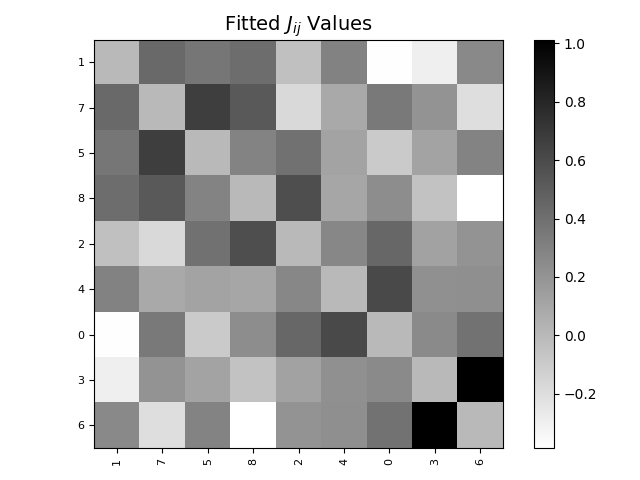
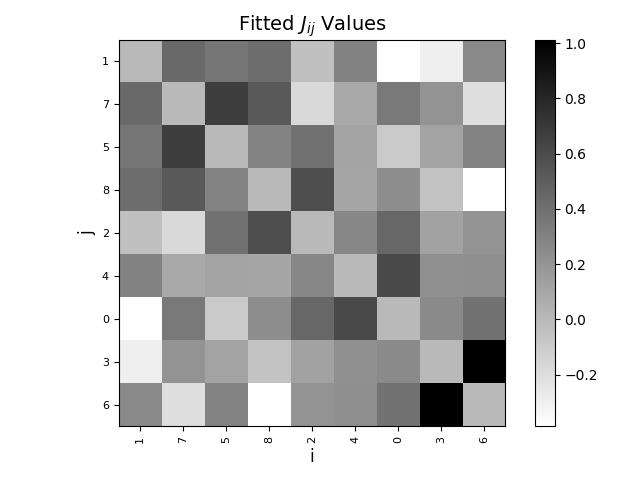
add empirical vs theoretical fit models

diff --git a/src/tcs/supreme_court.py b/src/tcs/supreme_court.py
@@ -11,137 +11,141 @@ class SupremeCourt:
         self.Jij_file_path = Jij_file_path 
         self.SC_file_path = SC_file_path 
         self.num_judges = num_judges
+        self.hi_unsorted = None
+        self.Jij_unsorted = None
         self.data = None
+        self.n = None
+        self.mean_si_empirical = None
+        self.correlation_sisj_empirical = None
+        self.mean_si_model = None
+        self.correlation_sisj_model = None
+        self.p_g = None
+        self.p_D = None
+        self.all_states = None
 
-    def load_data(self): 
-        """
-        Load data from the file path.
-        """
+    def load_data(self):
         with open(self.SC_file_path, 'r') as f:
-            self.data = [line.strip() for line in f]
+            lines = [line.strip() for line in f if line.strip()]
+        self.data = np.array([[int(c) if c != '0' else -1 for c in line] for line in lines])
+        self.n = self.data.shape[1]
+    
+    def load_parameters(self):
+        self.hi_unsorted = np.loadtxt(self.hi_file_path)
+        self.Jij_unsorted = np.loadtxt(self.Jij_file_path)
+
+        self.Jij_matrix = np.zeros((self.num_judges, self.num_judges))
+        idx = 0
+        for i in range(self.n):
+            for j in range(i + 1, self.n):
+                self.Jij_matrix[i, j] = self.Jij_unsorted[idx]
+                self.Jij_matrix[j, i] = self.Jij_unsorted[idx]
+                idx += 1
+    
+    def calculate_empirical_values(self):
+        """
+        Calculates <si>D and <si sj>D from the data.
+        """
+        # Calculate <si>_D and <si sj>_D
+        self.mean_si_empirical = np.mean(self.data, axis=0)
+        self.correlation_sisj_empirical = np.einsum('ni,nj->ij', self.data, self.data) / self.data.shape[0]
+        _, counts = np.unique(self.data, axis=0, return_counts=True)
+
+        # Calculate p_D(s)
+        self.p_D = counts / self.n
+    
+    def calculate_model_values(self):
+        """
+        Calculates <si>D and <si sj>D from the model.
+        """
+        states, _ = np.unique(self.data, axis=0, return_counts=True)
+
+        # Calculate p_g(s) 
+        if self.p_g is None:
+            exp_terms = []
+            for state in states:
+                exp_term = np.exp(np.dot(self.hi_unsorted, state) + 0.5*np.sum(self.Jij_matrix * np.outer(state, state)))
+                exp_terms.append(exp_term)
+            exp_terms = np.array(exp_terms)
+
+            Z_g = np.sum(exp_terms)
+            self.p_g = exp_terms / Z_g
+
+        # Calculate <si> and <si sj>
+        if self.mean_si_model is None or self.correlation_sisj_model is None:
+            self.mean_si_model = np.sum(states * self.p_g[:, None], axis=0)
+            self.correlation_sisj_model = np.einsum('si,sj,s->ij', states, states, self.p_g)
+
 
     def calculate_information(self): 
         """
         Calculate the information of the number of spins n, the number of states the data can observe 2^n, 
         the number N of datapoints, and the number N_max of different states that can be observed. 
         """
+        self.calculate_empirical_values()
         # Calculate n, the number of spins
-        n_values = []
-        for i, entry in enumerate(self.data):
-            n = sum(digit.isdigit() for digit in entry)
-            n_values.append(n)
+        unique_states = set(map(tuple, self.data))
         
-        if len(set(n_values)) == 1:
-            print(f"n = {n_values[0]}")
-        else: 
-            print("n values are not equal")
-
-        # Calculate the number of states that can be observed 
-        states = 2**n_values[0]
-        print(f"Number of states = {states}")
+        print(f"n = {self.n}")
+        print(f"Number of possible states = {2 ** self.n}")
+        print(f"N = {len(self.data)}")
+        print(f"N_max = {len(unique_states)}")
     
-        # Calculate N, the number of datapoints
-        N = len(self.data)
-        print(f"N = {N}")
 
-        # Calculate N_max, the number of different states that can be observed
-        N_max = len(set(self.data))
-        print(f"N_max = {N_max}")
-    
     def plot_average_votes(self, save_path=None): 
         """
         Plot the votes of the Supreme Court.
         """
-
         # Plot the value of <si>_D (the average of the votes) as a function of i. 
-
-        with open(self.SC_file_path, 'r') as f:
-            lines = [line.strip() for line in f if line.strip()]
-        data = np.array([[int(char) for char in line] for line in 
-                         lines])
-        data[data == 0] = -1
-
-        mean_si = np.mean(data, axis=0)
-
-        sorted_indices = np.argsort(mean_si)
-        sorted_mean_si = mean_si[sorted_indices]
-        i = np.arange(len(sorted_mean_si))
-
+        self.calculate_empirical_values()
+        sorted_indices = np.argsort(self.mean_si_empirical)
         plt.figure()
-        plt.scatter(i, sorted_mean_si, marker='o', color='black')
-        plt.title(r"Mean $<s_i>_D$ as a function of i", fontsize=14)
-        plt.xlabel("i", fontsize=12)
-        plt.xticks([])
-        plt.ylabel(r"$<s_i>_D$", fontsize=12)
-        plt.grid(visible=True, alpha=0.5)
-        plt.tight_layout()
-        if save_path: 
+        plt.scatter(np.arange(self.n), self.mean_si_empirical[sorted_indices], color='black')
+        plt.title(r"Mean $<s_i>$ as a function of i")
+        plt.xlabel("Justice (sorted)")
+        plt.ylabel(r"$<s_i>$")
+        plt.grid(True, alpha=0.5)
+        if save_path:
             plt.savefig(save_path)
-        else: 
+        else:
             plt.show()
 
     def plot_vote_correlation(self, save_path=None): 
         """
-        Plot the correlation matrix of the votes.
+        Plot a heatmap of the correlation matrix of the Judges' votes.
         """
-        # Heatmap of the correlation matrix
-        with open(self.SC_file_path, 'r') as f:
-            lines = [line.strip() for line in f if line.strip()]
-        data = np.array([[int(char) for char in line] for line in 
-                         lines])
-        data[data == 0] = -1
-        mean_si = np.mean(data, axis=0)
-        sorted_indices = np.argsort(mean_si)
-        corr_si_sj = np.einsum('ni,nj->ij', data, data) / data.shape[0]
-        sorted_corr_si = corr_si_sj[sorted_indices][:, sorted_indices]
+        self.calculate_empirical_values()
+        sorted_indices = np.argsort(self.mean_si_empirical)
+        sorted_corr = self.correlation_sisj_empirical[sorted_indices][:, sorted_indices]
+
         plt.figure()
-        plt.imshow(sorted_corr_si, cmap='gray_r')  # Use 'gray_r' for reversed greyscale
+        plt.imshow(sorted_corr, cmap='gray_r')
         plt.colorbar()
-        plt.title(r"Correlation matrix $<s_i s_j>_D$", fontsize=14)
-        plt.xlabel("i", fontsize=12)
-        plt.ylabel("j", fontsize=12)
-        plt.xticks(ticks=np.arange(len(sorted_indices)), labels=sorted_indices, fontsize=8, rotation=90)
-        plt.yticks(ticks=np.arange(len(sorted_indices)), labels=sorted_indices, fontsize=8)
-        plt.grid(visible=True, alpha=0.5)
+        plt.title(r"Correlation matrix $<s_i s_j>$")
+        plt.xticks(np.arange(self.n), sorted_indices, fontsize=8, rotation=90)
+        plt.yticks(np.arange(self.n), sorted_indices, fontsize=8)
         plt.tight_layout()
-        if save_path: 
+        if save_path:
             plt.savefig(save_path)
-        else: 
+        else:
             plt.show()
 
     def plot_fitted_parameters(self, save_hi_path=None, save_Jij_path=None): 
         """
         Plot heatmaps of the fitted hi vector and Jij matrix, reordered by <si>_D.
         """
-        hi_unsorted = np.loadtxt(self.hi_file_path)
-        Jij_unsorted = np.loadtxt(self.Jij_file_path)
+        self.load_parameters()
+        self.calculate_empirical_values()
+        sorted_indices = np.argsort(self.mean_si_empirical)
 
-
-        Jij_matrix = np.zeros((self.num_judges, self.num_judges))
-        idx = 0
-        for i in range(self.num_judges):
-            for j in range(i+1, self.num_judges):
-                Jij_matrix[i, j] = Jij_unsorted[idx]
-                Jij_matrix[j, i] = Jij_unsorted[idx]
-                idx += 1
-
-        with open(self.SC_file_path, 'r') as f:
-            lines = [line.strip() for line in f if line.strip()]
-
-        # Sort by mean magnetisations 
-        data = np.array([[int(char) for char in line] for line in lines])
-        data[data == 0] = -1
-        mean_si = np.mean(data, axis=0)
-        sorted_indices = np.argsort(mean_si)
-
-        hi_sorted = hi_unsorted[sorted_indices]
-        Jij_sorted = Jij_matrix[sorted_indices][:, sorted_indices]
+        hi_sorted = self.hi_unsorted[sorted_indices]
+        Jij_sorted = self.Jij_matrix[sorted_indices][:, sorted_indices]
 
         # Plot hi heatmap
         plt.figure()
         plt.imshow(hi_sorted.reshape(1, -1), cmap='gray_r', aspect='auto')
         plt.colorbar()
         plt.title(r"Fitted $h_i$ Values", fontsize=14)
+        plt.xlabel("i", fontsize=12)
         plt.yticks([])
         plt.xticks(ticks=np.arange(len(hi_sorted)), labels=sorted_indices, fontsize=8, rotation=90)
         plt.tight_layout()
@@ -155,9 +159,12 @@ class SupremeCourt:
         plt.imshow(Jij_sorted, cmap='gray_r')
         plt.colorbar()
         plt.title(r"Fitted $J_{ij}$ Values", fontsize=14)
+        plt.xlabel("i", fontsize=12)
+        plt.ylabel("j", fontsize=12)
         plt.xticks(ticks=np.arange(len(Jij_sorted)), labels=sorted_indices, fontsize=8, rotation=90)
         plt.yticks(ticks=np.arange(len(Jij_sorted)), labels=sorted_indices, fontsize=8)
         plt.tight_layout()
+
         if save_Jij_path:
             plt.savefig(save_Jij_path)
         else:
@@ -168,54 +175,24 @@ class SupremeCourt:
         Plot the probability of pg(s) against pD(s) to cross-validate 
         the theoretical model against the data. 
         """
+        self.calculate_empirical_values()
+        self.calculate_model_values()
 
-        hi_unsorted = np.loadtxt(self.hi_file_path)
-        Jij_unsorted = np.loadtxt(self.Jij_file_path)
-
-        with open(self.SC_file_path, 'r') as f:
-            lines = [line.strip() for line in f if line.strip()]
-
-        data = np.array([[int(char) for char in line] for line in lines])
-        data[data == 0] = -1
-
-        Jij_matrix = np.zeros((self.num_judges, self.num_judges))
-        idx = 0
-        for i in range(self.num_judges):
-            for j in range(i+1, self.num_judges):
-                Jij_matrix[i, j] = Jij_unsorted[idx]
-                Jij_matrix[j, i] = Jij_unsorted[idx]
-                idx += 1
-        
-        # Calculate p_D(s) 
-        states, counts = np.unique(data, axis=0, return_counts=True)
-        N = len(data)
-        p_D = counts / N
-
-        # Calculate p_g(s) 
-        exp_terms = []
-        for state in states:
-            exp_term = np.exp(np.dot(hi_unsorted, state) + 0.5*np.sum(Jij_matrix * np.outer(state, state)))
-            exp_terms.append(exp_term)
-        exp_terms = np.array(exp_terms)
-
-        Z_g = np.sum(exp_terms)
-        p_g = exp_terms / Z_g
-
-        coeffs = np.polyfit(p_D, p_g, 1)
+        coeffs = np.polyfit(self.p_D, self.p_g, 1)
 
         # Plot the probability of pg(s) against pD(s)
         plt.figure()
-        plt.scatter(p_D, p_g, marker='o', color='black')
+        plt.scatter(self.p_D, self.p_g, marker='o', color='black')
         plt.plot(
-            p_D, 
-            coeffs[0] * p_D + coeffs[1], 
+            self.p_D, 
+            coeffs[0] * self.p_D + coeffs[1], 
             color='red', 
             label=f'Fitted line: y = {coeffs[0]:.2f}x + {coeffs[1]:.2f}'
             )
         
-        plt.title(r"p_D(s) against p_g(s)", fontsize=14)
-        plt.xlabel("i", fontsize=12)
-        plt.ylabel("Probability", fontsize=12)
+        plt.title(r"$p_D(s)$ against $p_g(s)$", fontsize=14)
+        plt.xlabel(r"$p_D(s)$", fontsize=12)
+        plt.ylabel(r"$p_g(s)$", fontsize=12)
         plt.grid(visible=True, alpha=0.5)
         plt.legend()
         plt.tight_layout()
@@ -225,8 +202,60 @@ class SupremeCourt:
         else: 
             plt.show()
 
+    def plot_averages_cross_validation(self, avg_save_path=None, corr_save_path=None): 
+            """
+            Plot the average cross-validation results.
+            """
+            self.calculate_empirical_values()
+            self.calculate_model_values()
 
+            # Plot the average <si>_D against <si>
+            plt.figure()
+            plt.scatter(self.mean_si_empirical, self.mean_si_model, marker='o', color='black')
+            coeffs = np.polyfit(self.mean_si_empirical, self.mean_si_model, 1)
+            plt.plot(
+                self.mean_si_empirical, 
+                coeffs[0] * self.mean_si_empirical + coeffs[1], 
+                color='red', 
+                label=f'Fitted line: y = {coeffs[0]:.2f}x + {coeffs[1]:.2f}'
+                )
+            plt.title(r"$<s_i>_D$ against $<s_i>$", fontsize=14)
+            plt.xlabel(r"$<s_i>_D$", fontsize=12)
+            plt.ylabel(r"$<s_i>$", fontsize=12)
+            plt.grid(visible=True, alpha=0.5)
+            plt.legend()
+            plt.tight_layout()
+            if avg_save_path: 
+                plt.savefig(avg_save_path)
+            else: 
+                plt.show()
 
+            # Plot the correlations <si sj>_D against <si sj>
+            plt.figure()
+            plt.scatter(
+                self.correlation_sisj_empirical.flatten(), 
+                self.correlation_sisj_model.flatten(), 
+                marker='o', 
+                color='black'
+                )
+            coeffs = np.polyfit(self.correlation_sisj_empirical.flatten(), self.correlation_sisj_model.flatten(), 1)
+            plt.plot(
+                self.correlation_sisj_empirical.flatten(), 
+                coeffs[0] * self.correlation_sisj_empirical.flatten() + coeffs[1], 
+                color='red', 
+                label=f'Fitted line: y = {coeffs[0]:.2f}x + {coeffs[1]:.2f}'
+                )
+            plt.title(r"$<s_i s_j>_D$ against $<s_i s_j>$", fontsize=14)
+            plt.xlabel(r"$<s_i s_j>_D$", fontsize=12)
+            plt.ylabel(r"$<s_i s_j>$", fontsize=12)
+            plt.grid(visible=True, alpha=0.5)
+            plt.legend()
+            plt.tight_layout()
+            if corr_save_path: 
+                plt.savefig(corr_save_path)
+            else: 
+                plt.show()
+            
 if __name__ == "__main__":
     results_dir = "results"
     if not os.path.exists(results_dir):
@@ -250,5 +279,9 @@ if __name__ == "__main__":
     )
 
     sc.plot_probability_cross_validation(save_path=os.path.join(results_dir, "cross_validation_plot.png"))
+    sc.plot_averages_cross_validation(
+        avg_save_path=os.path.join(results_dir, "avg_cross_validation_plot.png"),
+        corr_save_path=os.path.join(results_dir, "corr_cross_validation_plot.png")
+    )
 
     

diff --git a/src/tcs/neuron.py b/src/tcs/neuron.py
@@ -88,7 +88,4 @@ class Neuron:
             plt.savefig(save_path)
         else: 
             plt.show()
-        # # Quantify the difference between the original and generated data
-        # ks_statistic, p_value = sp.stats.ks_2samp(self.difference, np.diff(self.gen_spike_data))
-        # print(f"KS Statistic: {ks_statistic}, p-value: {p_value}")
 
